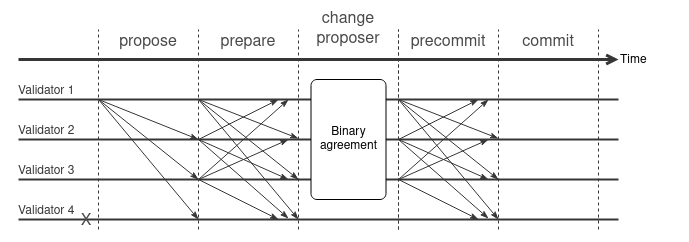
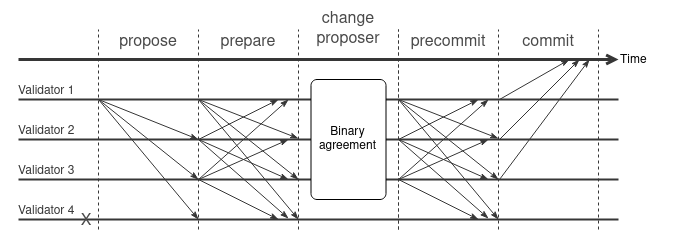
updating pip-10 (#37)

diff --git a/PIPs/pip-10.md b/PIPs/pip-10.md
@@ -65,6 +65,14 @@ Figure below shows the communication patterns for the agreement path when the pr
 
 ![Fast Agreement Path](../assets/pip-10/change_proposer_1.png)
 
+### Block certificate
+
+The block certificate should be modified as follows:
+
+If the most significant bit of the round number is set to 1, the certificate is issued at the prepare step.
+It should then be validated with $3f+1$ votes from the validators in the Prepare step.
+If set to zero, it should be validated with $2f+1$ votes from the validators in the Precommit step.
+
 ## References:
 
 1. [Zyzzyva: Speculative Byzantine Fault Tolerance](https://www.cs.cornell.edu/lorenzo/papers/kotla07Zyzzyva.pdf)
